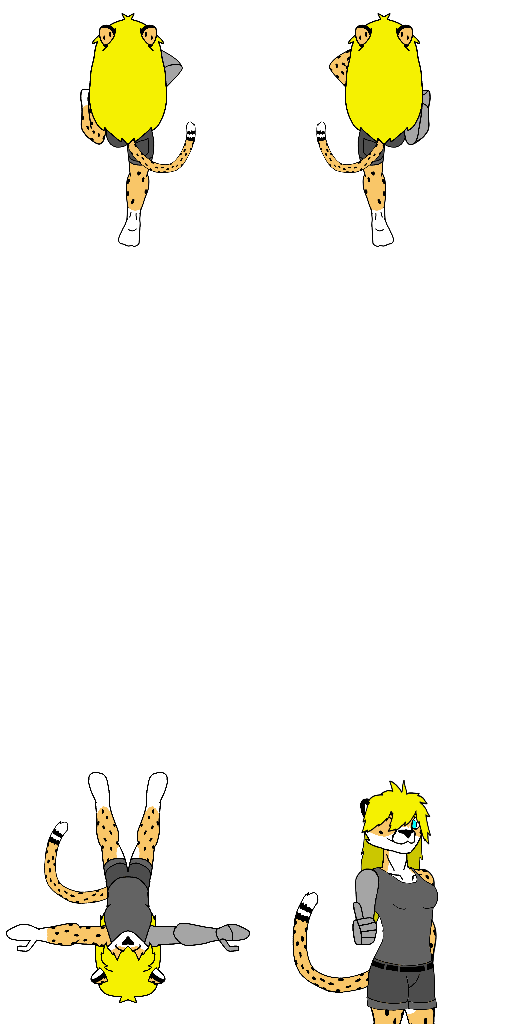
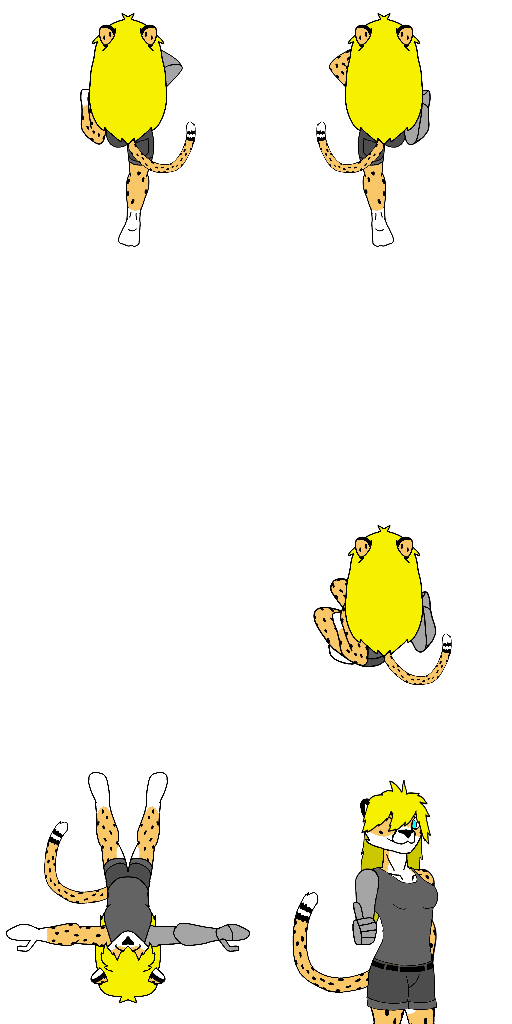
Last Sync: 2026-10-31 20:06 (Mobile)

Changed region(s): [[0.5938, 0.5, 0.875, 0.6875]]

diff --git a/cheetah_run/index.html b/cheetah_run/index.html
@@ -619,25 +619,50 @@ let currentPlayerImage = localStorage.getItem('selectedPlayerImage') || 'players
             gameOverScreen.style.display = 'none';
             startScreen.style.display = 'flex';
         }
-
+        
+                function resetJumpCounters() {
+            isJumping = false;
+            player.style.transition = 'none';
+            player.style.transform = 'translateY(0)';
+            player.style.backgroundPosition = (runFrame === 0 ? '0% 0%' : '-100% 0%');            
+            
+            setTimeout(() => {
+                player.style.transition = 'transform 0.45s cubic-bezier(0, 0, 0.58, 1)';
+            }, 50);
+        }
+        
         function jump() {
             if (isJumping) return;
             isJumping = true;
             
-            player.style.transition = 'transform 0.3s cubic-bezier(0, 0, 0.2, 1)';
+            // توليد رقم عشوائي بين 1 و 10 لاختيار شكل/إطار الصورة عشوائياً
+            let num = Math.floor(Math.random() * 10) + 1;
+            
+            let bgPos = '-100% 0%'; // الإطار الافتراضي للصورة
+            if (num < 4) {
+                bgPos = '-100% 200%'; // إطار عشوائي مختلف للصورة إذا كان الرقم أقل من 4
+            }
+            
+            // معلومات الحركة الثابتة والمنتظمة لجميع القفزات
+            player.style.transition = 'transform 0.8s cubic-bezier(0, 0, 0.2, 1)';
             player.style.transform = 'translateY(-110px)';
-            player.style.backgroundPosition = '-100% 0%';
+            player.style.backgroundPosition = bgPos; // تطبيق الصورة العشوائية هنا
             
             setTimeout(() => {
-                player.style.transition = 'transform 0.3s cubic-bezier(0.42, 0, 1, 1)';
+                if (!isJumping) return; // لضمان عدم حدوث تداخل إذا تم التصفير بالأسفل
+                
+                player.style.transition = 'transform 0.2s cubic-bezier(0.42, 0, 1, 1)';
                 player.style.transform = 'translateY(0)';
                 player.style.backgroundPosition = '0% 0%';
                 
                 setTimeout(() => {
                     isJumping = false;
                 }, 200);
-            }, 200);
+            }, 500);
         }
+
+
+
 
         function moveLeft() {
             if (currentLane < 2) {
